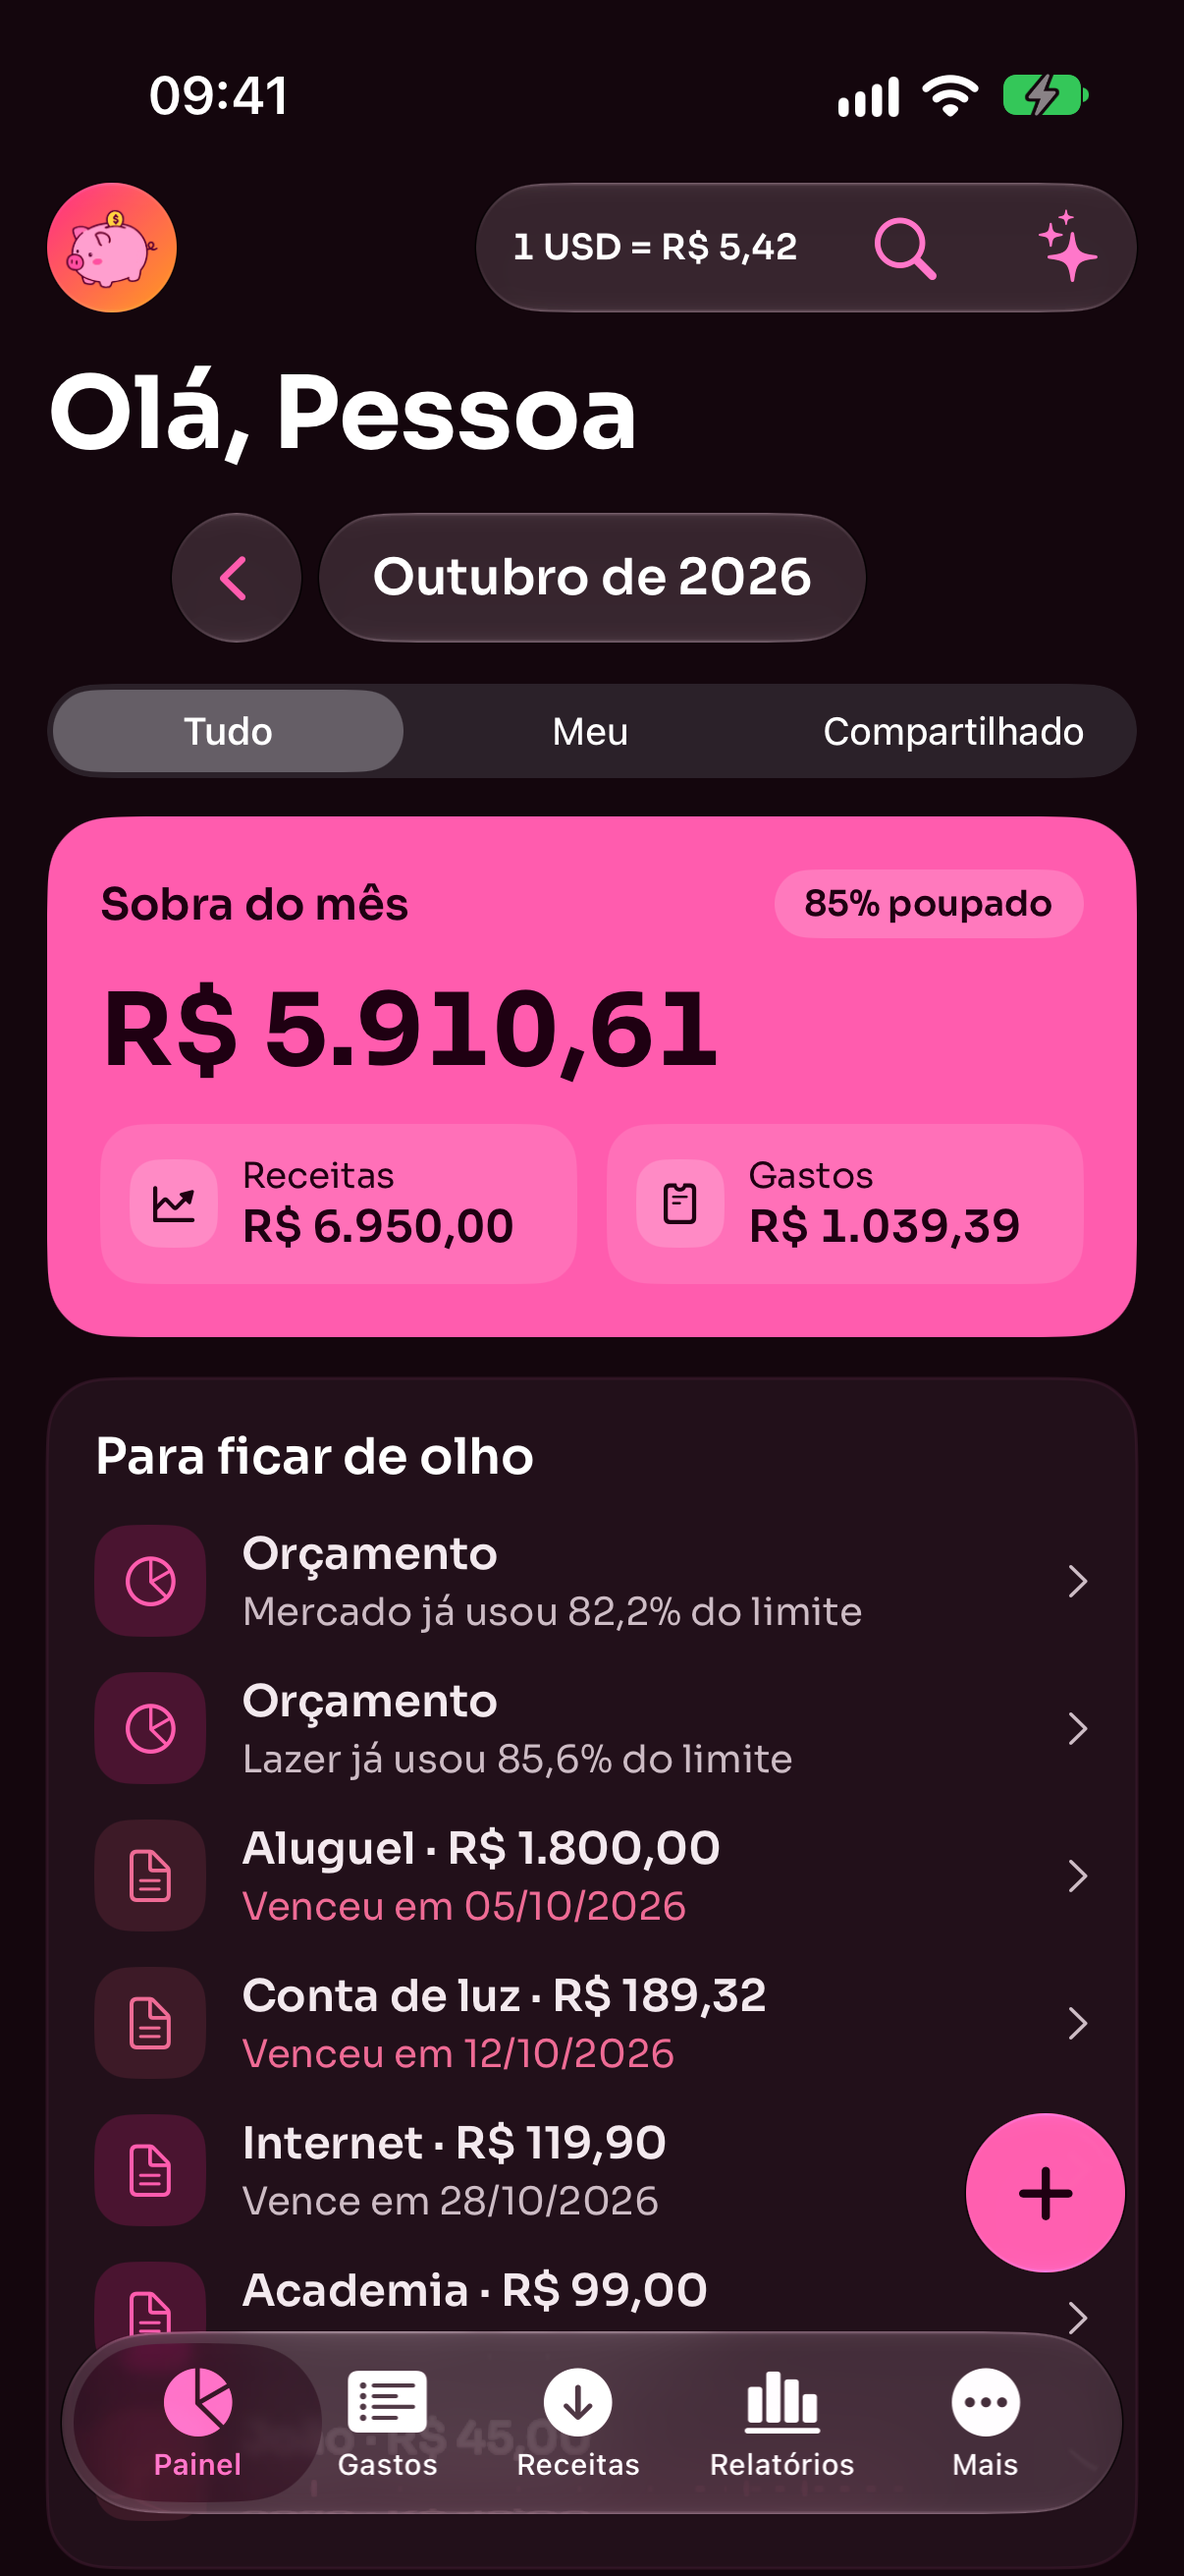
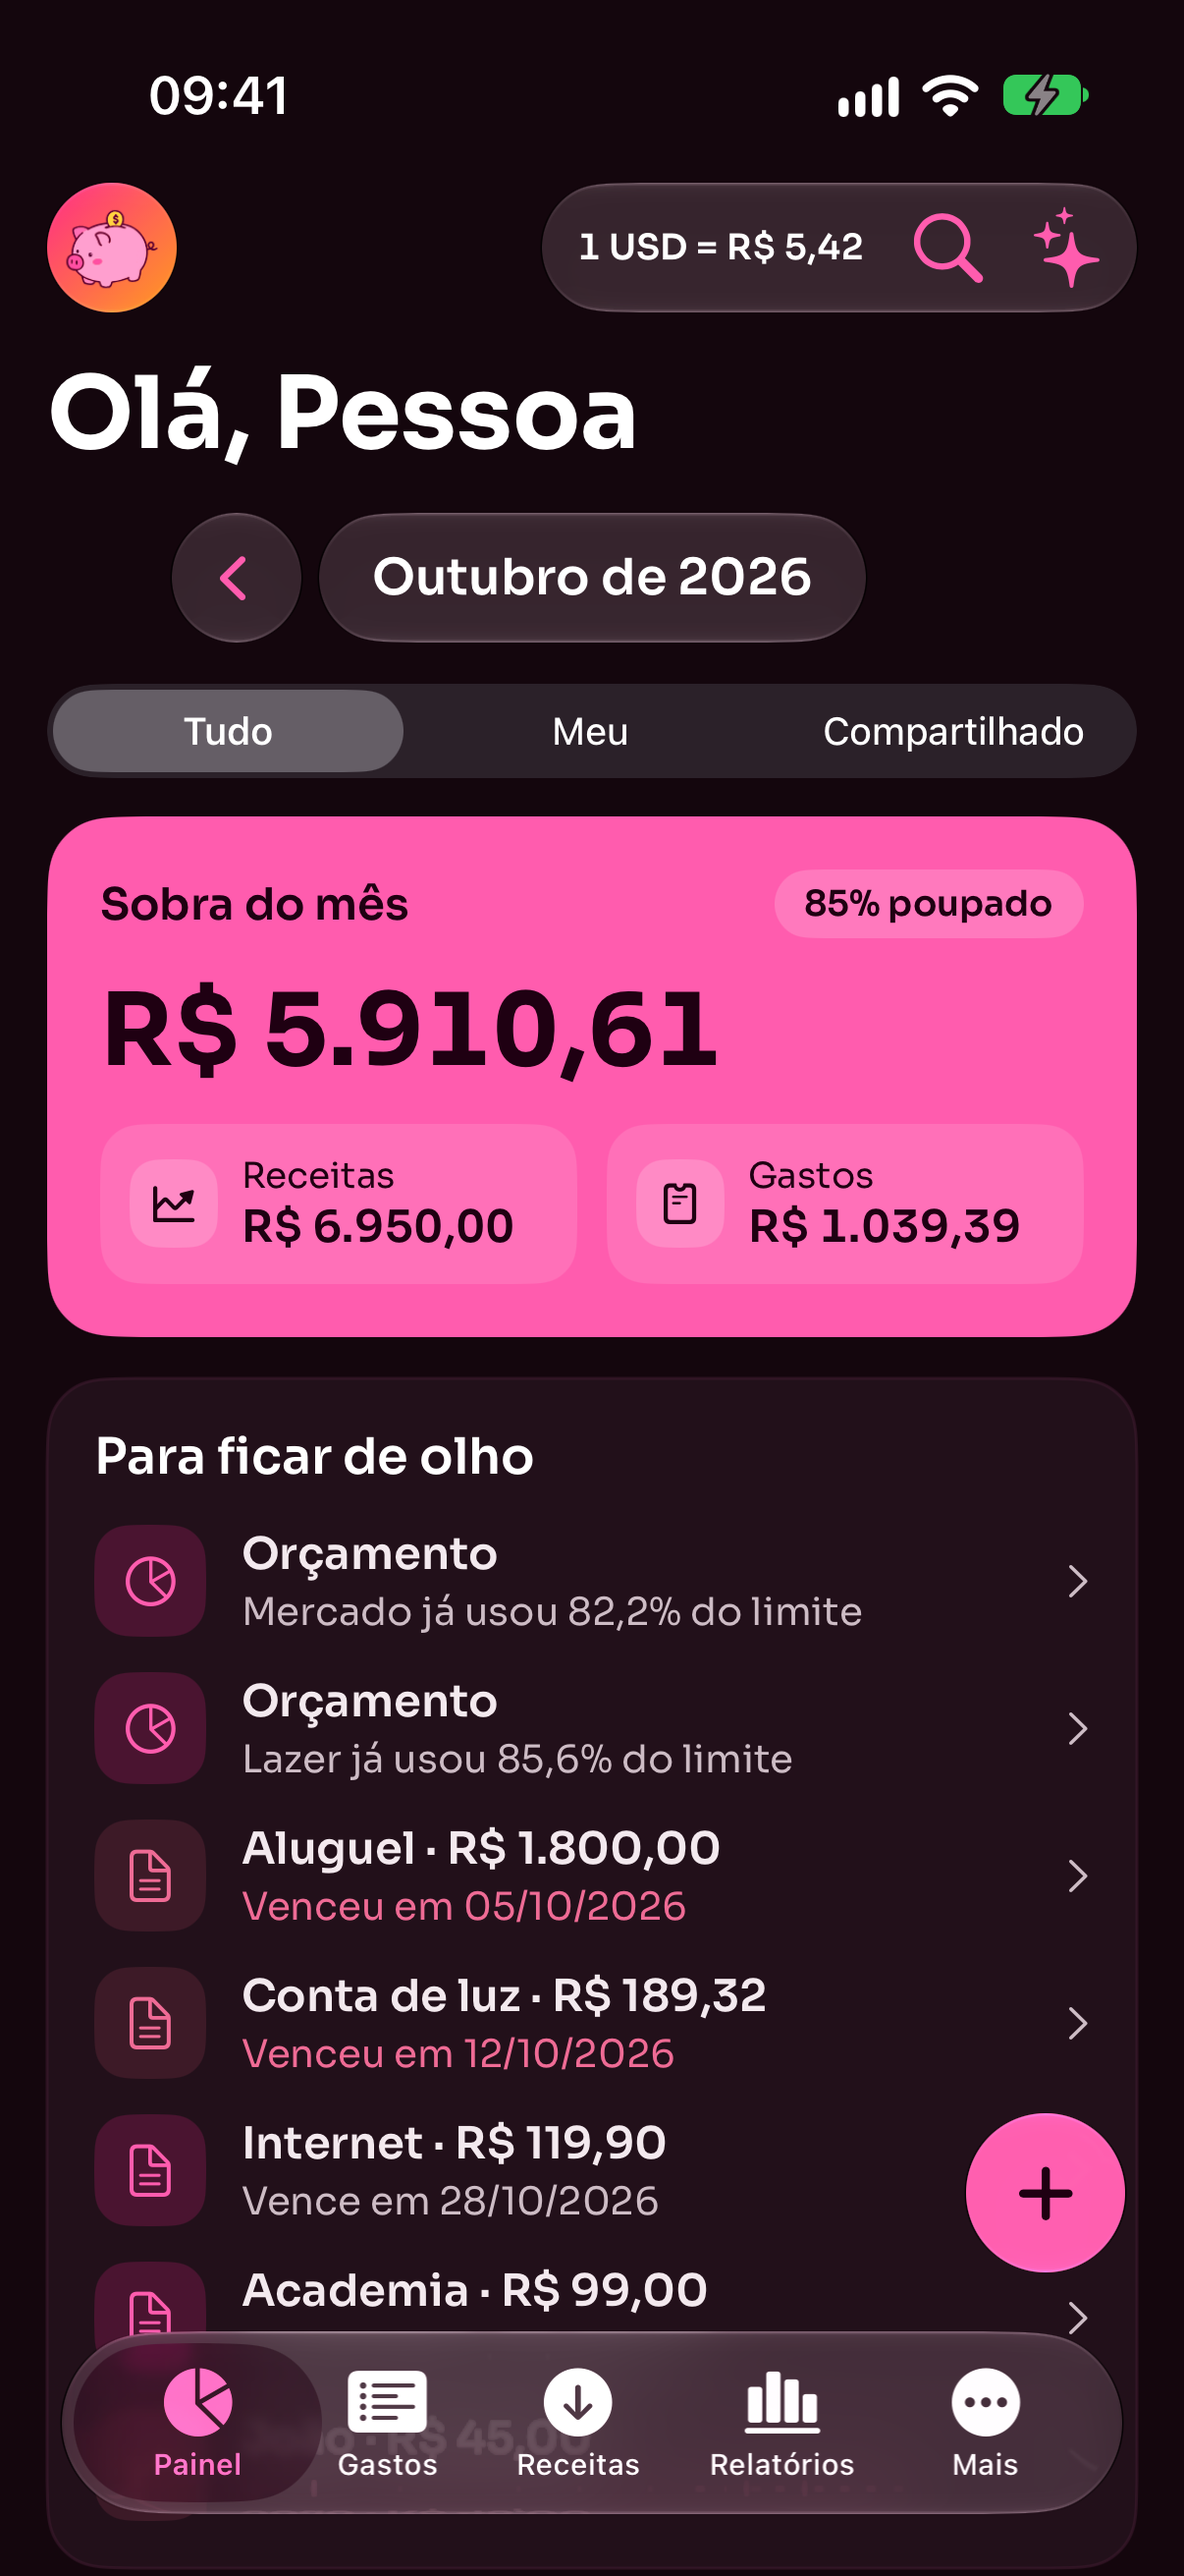
iOS nativo: cotacao, busca e assistente numa bolha so, com o mesmo espaco
Claude-Session: https://claude.ai/code/session_01AsWX2xAHLy9gLMwJgyJqFe

Changed region(s): [[0.3988, 0.0618, 0.7056, 0.1236], [0.7363, 0.0618, 0.8284, 0.1236], [0.8897, 0.0927, 0.9204, 0.1236]]

diff --git a/ios-nativo/Piggu/Telas/Topo/TopoDoPiggu.swift b/ios-nativo/Piggu/Telas/Topo/TopoDoPiggu.swift
@@ -13,13 +13,16 @@ extension EnvironmentValues {
 
 extension View {
     /// O cabecalho do site (shell.html) no topo de cada aba: a marca a esquerda, que volta ao
-    /// Painel, e a busca e o assistente a direita.
-    func topoDoPiggu() -> some View {
-        modifier(TopoDoPiggu())
+    /// Painel, e a busca e o assistente a direita. `antes` entra na mesma bolha, a esquerda da
+    /// lupa (a cotacao no Painel).
+    func topoDoPiggu(@ViewBuilder antes: () -> some View = { EmptyView() }) -> some View {
+        modifier(TopoDoPiggu(antes: antes()))
     }
 }
 
-private struct TopoDoPiggu: ViewModifier {
+private struct TopoDoPiggu<Antes: View>: ViewModifier {
+    let antes: Antes
+
     @Environment(\.abrirRota) private var abrirRota
     @State private var buscando = false
     @State private var perguntando = false
@@ -37,13 +40,18 @@ private struct TopoDoPiggu: ViewModifier {
                 } else {
                     ToolbarItem(placement: .topBarLeading) { marca }
                 }
-                ToolbarItemGroup(placement: .topBarTrailing) {
-                    Button { buscando = true } label: {
-                        Label("Buscar", systemImage: "magnifyingglass")
+                // Um item so, e nao um grupo: o grupo poe a folga dele entre cada botao.
+                ToolbarItem(placement: .topBarTrailing) {
+                    HStack(spacing: 0) {
+                        antes.padding(.horizontal, 8)
+                        Button { buscando = true } label: {
+                            Label("Buscar", systemImage: "magnifyingglass").icone()
+                        }
+                        Button { perguntando = true } label: {
+                            Label("Perguntar ao assistente", systemImage: "sparkles").icone()
+                        }
                     }
-                    Button { perguntando = true } label: {
-                        Label("Perguntar ao assistente", systemImage: "sparkles")
-                    }
+                    .buttonStyle(.plain)
                 }
             }
             .sheet(isPresented: $buscando) { BuscaView() }
@@ -67,6 +75,17 @@ private struct TopoDoPiggu: ViewModifier {
             .accessibilityHint("Abre o Painel")
             .accessibilityAddTraits(.isButton)
             .accessibilityAction { abrirRota(.aba(.painel)) }
+    }
+}
+
+private extension Label where Title == Text, Icon == Image {
+    /// So o simbolo, na cor do Piggu, com a area de toque de 44 pt: o mesmo passo entre os dois.
+    func icone() -> some View {
+        labelStyle(.iconOnly)
+            .font(.system(size: 19, weight: .medium))
+            .foregroundStyle(.tint)
+            .frame(width: 40, height: 44)
+            .contentShape(Rectangle())
     }
 }
 

diff --git a/ios-nativo/Piggu/Telas/PainelView.swift b/ios-nativo/Piggu/Telas/PainelView.swift
@@ -31,18 +31,14 @@ struct PainelView: View {
             .background(paleta.fundo)
             .safeAreaInset(edge: .top) { SeletorDeMes(mes: $mes) }
             .navigationTitle(saudacao)
-            .topoDoPiggu()
-            .toolbar {
+            .topoDoPiggu {
                 if let cotacao = modelo?.cotacao {
-                    ToolbarItem(placement: .topBarTrailing) {
-                        Text(Formatos.cotacao(cotacao))
-                            .font(.sora(.caption, peso: .medium))
-                            .monospacedDigit()
-                            .fixedSize()
-                            .padding(.leading, 8)
-                            .accessibilityHint(cotacao.desatualizada == true
-                                               ? "Última cotação conhecida" : "Referência de bancos centrais")
-                    }
+                    Text(Formatos.cotacao(cotacao))
+                        .font(.sora(.caption, peso: .medium))
+                        .monospacedDigit()
+                        .fixedSize()
+                        .accessibilityHint(cotacao.desatualizada == true
+                                           ? "Última cotação conhecida" : "Referência de bancos centrais")
                 }
             }
             .comTelasDoMais()
